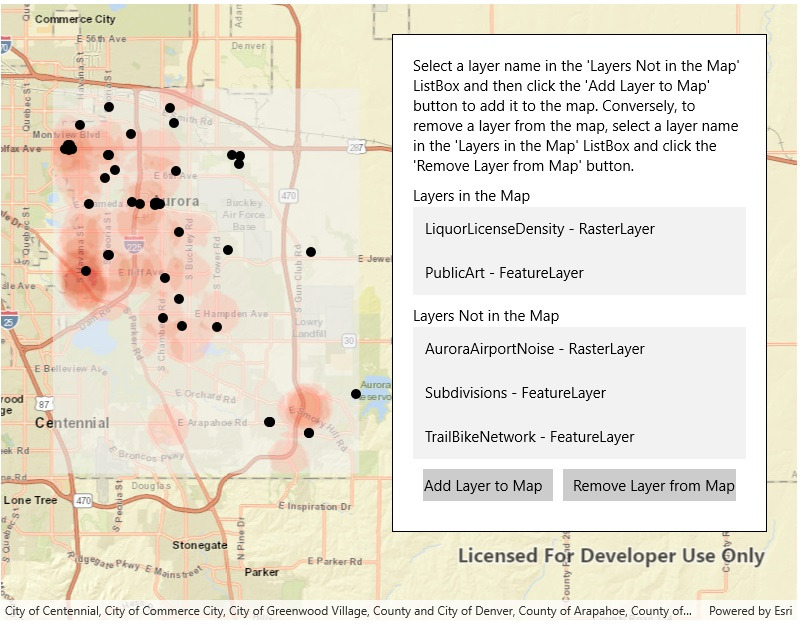
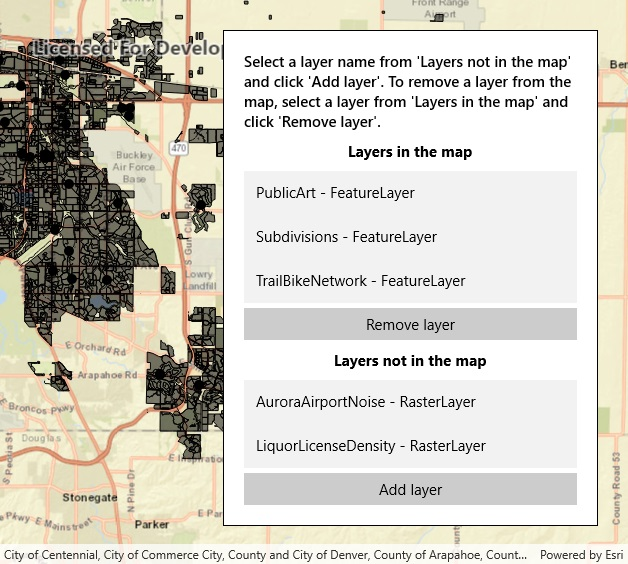
Read a GeoPackage
Improvements:

* Improved form alignment.
* Reformatted XAML.
* Renamed controls.

diff --git a/src/UWP/ArcGISRuntime.UWP.Viewer/Samples/Data/ReadGeoPackage/ReadGeoPackage.xaml b/src/UWP/ArcGISRuntime.UWP.Viewer/Samples/Data/ReadGeoPackage/ReadGeoPackage.xaml
@@ -1,30 +1,42 @@
-<UserControl 
+<UserControl
     x:Class="ArcGISRuntime.UWP.Samples.ReadGeoPackage.ReadGeoPackage"
     xmlns="http://schemas.microsoft.com/winfx/2006/xaml/presentation"
     xmlns:x="http://schemas.microsoft.com/winfx/2006/xaml"
-    xmlns:esriUI="using:Esri.ArcGISRuntime.UI.Controls" >
+    xmlns:esriUI="using:Esri.ArcGISRuntime.UI.Controls">
     <Grid>
-        <esriUI:MapView x:Name="MyMapView"/>
-        <Border
-                Background="White" BorderBrush="Black" BorderThickness="1"
+        <esriUI:MapView x:Name="MyMapView" />
+        <Border Background="White" BorderBrush="Black" BorderThickness="1"
                 HorizontalAlignment="Right" VerticalAlignment="Top"
-                Margin="30" Padding="20" Width="400">
-            <StackPanel>
-                <TextBlock Text="Select a layer name in the 'Layers Not in the Map' ListBox and then click the 'Add Layer to Map' button to add it to the map. Conversely, to remove a layer from the map, select a layer name in the 'Layers in the Map' ListBox and click the 'Remove Layer from Map' button." 
-                           Margin="0,0,0,10" TextWrapping="Wrap" />
-                <TextBlock Text="Layers in the Map" 
-                           Margin="0,0,0,2" TextWrapping="Wrap" />
-                <ListBox Name="ListBox_LayersInTheMap" />
-                <TextBlock Text="Layers Not in the Map" 
-                           Margin="0,10,0,2" TextWrapping="Wrap" />
-                <ListBox Name="ListBox_LayersNotInTheMap" />
-                <StackPanel Orientation="Horizontal" HorizontalAlignment="Center" Margin="10">
-                    <Button Name="Button_AddLayerToMap" Content="Add Layer to Map"  Click="Button_AddLayerToMap_Click" Margin="0,0,5,0" />
-                    <Button Name="Button_RemoveLayerFromMap" Content="Remove Layer from Map"  Click="Button_RemoveLayerFromMap_Click" Margin="5,0,0,0" />
+                Margin="30" Padding="20" Width="375">
+            <ScrollViewer>
+                <StackPanel>
+                    <TextBlock
+                        Text="Select a layer name from 'Layers not in the map' and click 'Add layer'. To remove a layer from the map, select a layer from 'Layers in the map' and click 'Remove layer'."
+                        Margin="0,0,0,10"
+                        TextWrapping="Wrap" FontWeight="SemiBold" />
+                    <TextBlock Text="Layers in the map"
+                               FontWeight="Bold"
+                               Margin="0,0,0,5" HorizontalAlignment="Center"
+                               TextWrapping="Wrap" />
+                    <ListBox x:Name="LayersInTheMap"
+                             Margin="0,5,0,5" />
+                    <Button Content="Remove layer"
+                            HorizontalAlignment="Stretch"
+                            Click="Button_RemoveLayerFromMap_Click" />
+                    <TextBlock Text="Layers not in the map"
+                               FontWeight="Bold"
+                               Margin="0,10,0,5" HorizontalAlignment="Center"
+                               TextWrapping="Wrap" />
+                    <ListBox x:Name="LayersNotInTheMap"
+                             Margin="0,5,0,5" />
+                    <Button Content="Add layer"
+                            HorizontalAlignment="Stretch"
+                            Click="Button_AddLayerToMap_Click" />
+
                 </StackPanel>
-            </StackPanel>
+            </ScrollViewer>
+
         </Border>
     </Grid>
 
 </UserControl>
-

diff --git a/src/UWP/ArcGISRuntime.UWP.Viewer/Samples/Data/ReadGeoPackage/ReadGeoPackage.xaml.cs b/src/UWP/ArcGISRuntime.UWP.Viewer/Samples/Data/ReadGeoPackage/ReadGeoPackage.xaml.cs
@@ -91,7 +91,7 @@ namespace ArcGISRuntime.UWP.Samples.ReadGeoPackage
                 _myHybridDictionary_Layers.Add(myRasterLayerName, myRasterLayer);
 
                 // Add the name of the RasterLayer to the ListBox of layers not in map
-                ListBox_LayersNotInTheMap.Items.Add(myRasterLayerName);
+                LayersNotInTheMap.Items.Add(myRasterLayerName);
 
             }
 
@@ -119,14 +119,14 @@ namespace ArcGISRuntime.UWP.Samples.ReadGeoPackage
                 _myHybridDictionary_Layers.Add(myFeatureLayerName, myFeatureLayer);
 
                 // Add the name of the FeatureLayer to the ListBox of layers not in map
-                ListBox_LayersNotInTheMap.Items.Add(myFeatureLayerName);
+                LayersNotInTheMap.Items.Add(myFeatureLayerName);
             }
         }
 
         private void Button_AddLayerToMap_Click(object sender, Windows.UI.Xaml.RoutedEventArgs e)
         {
-            // Get the user selected value from the ListBox_LayersNotInTheMap
-            object myLayerSelection = ListBox_LayersNotInTheMap.SelectedValue;
+            // Get the user selected value from the LayersNotInTheMap
+            object myLayerSelection = LayersNotInTheMap.SelectedValue;
 
             // Ensure we have a valid selection
             if (myLayerSelection != null)
@@ -142,17 +142,17 @@ namespace ArcGISRuntime.UWP.Samples.ReadGeoPackage
                 MyMapView.Map.OperationalLayers.Add(myLayer);
 
                 // Remove the human-readable layer name from the ListBox_LayersNoInTheMap
-                ListBox_LayersNotInTheMap.Items.Remove(myLayerName);
+                LayersNotInTheMap.Items.Remove(myLayerName);
 
-                // Add the human-readable layer name to the ListBox_LayersInTheMap
-                ListBox_LayersInTheMap.Items.Add(myLayerName);
+                // Add the human-readable layer name to the LayersInTheMap
+                LayersInTheMap.Items.Add(myLayerName);
             }
         }
 
         private void Button_RemoveLayerFromMap_Click(object sender, Windows.UI.Xaml.RoutedEventArgs e)
         {
-            // Get the user selected value from the ListBox_LayersInTheMap
-            object myLayerSelection = ListBox_LayersInTheMap.SelectedValue;
+            // Get the user selected value from the LayersInTheMap
+            object myLayerSelection = LayersInTheMap.SelectedValue;
 
             // Ensure we have a valid selection
             if (myLayerSelection != null)
@@ -167,11 +167,11 @@ namespace ArcGISRuntime.UWP.Samples.ReadGeoPackage
                 // Remove the layer from the map
                 MyMapView.Map.OperationalLayers.Remove(myLayer);
 
-                // Remove the human-readable layer name from the ListBox_LayersInTheMap
-                ListBox_LayersInTheMap.Items.Remove(myLayerName);
+                // Remove the human-readable layer name from the LayersInTheMap
+                LayersInTheMap.Items.Remove(myLayerName);
 
-                // Add the human-readable layer name to the ListBox_LayersNotInTheMap
-                ListBox_LayersNotInTheMap.Items.Add(myLayerName);
+                // Add the human-readable layer name to the LayersNotInTheMap
+                LayersNotInTheMap.Items.Add(myLayerName);
             }
 
         }
